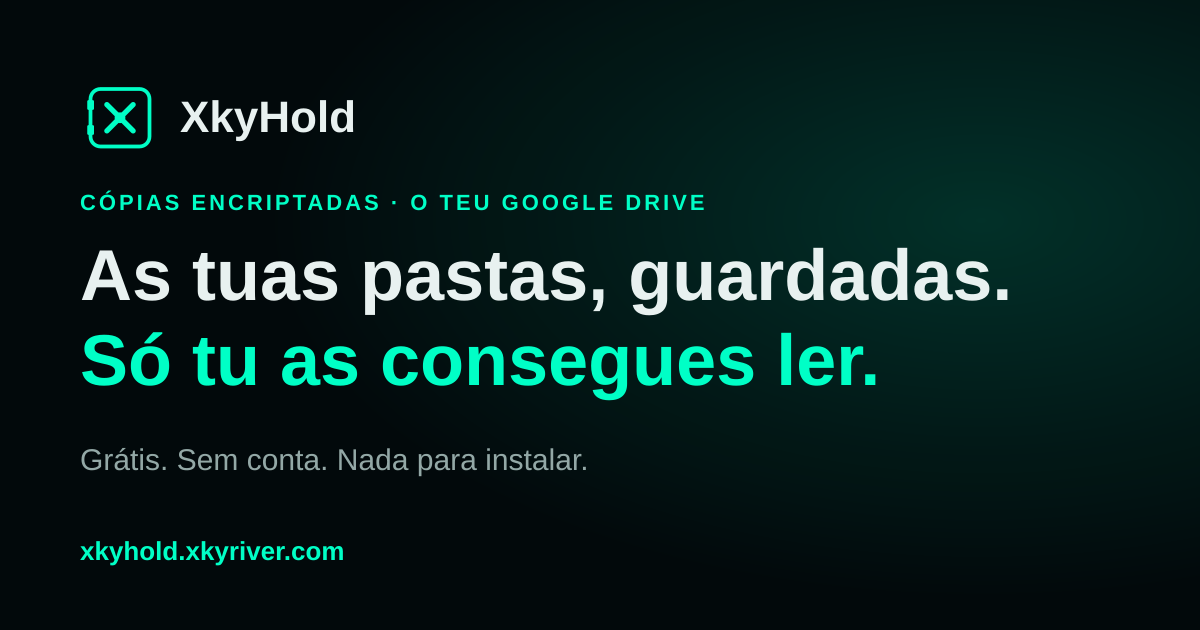
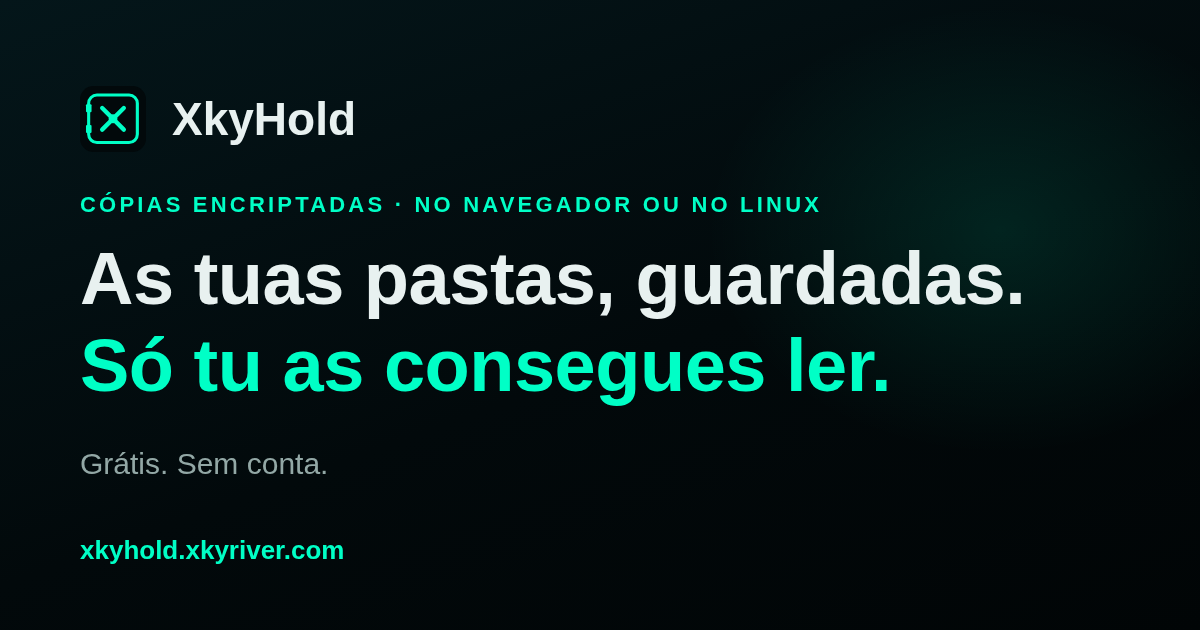
Landing phase 3: the Linux line in the app, new share images
- Folders step, on a Linux desktop: XkyHold-lx saves the whole personal
  folder, with a link to its page (tested detection)
- og.png and og-pt.png with the new texts, now made by scripts/og

diff --git a/src/lib/landing.test.ts b/src/lib/landing.test.ts
@@ -1,0 +1,19 @@
+import { describe, expect, it } from 'vitest'
+import { onLinuxDesktop } from './landing'
+
+describe('Linux desktop', () => {
+  it('knows a Linux desktop from Android, ChromeOS and the others', () => {
+    const firefox = 'Mozilla/5.0 (X11; Linux x86_64; rv:140.0) Gecko/20100101 Firefox/140.0'
+    const chrome = 'Mozilla/5.0 (X11; Linux x86_64) AppleWebKit/537.36 (KHTML, like Gecko) Chrome/140.0 Safari/537.36'
+    const android = 'Mozilla/5.0 (Linux; Android 15; Pixel 9) AppleWebKit/537.36 (KHTML, like Gecko) Chrome/140.0 Mobile Safari/537.36'
+    const chromeos = 'Mozilla/5.0 (X11; CrOS x86_64 16181.0.0) AppleWebKit/537.36 (KHTML, like Gecko) Chrome/140.0 Safari/537.36'
+    const windows = 'Mozilla/5.0 (Windows NT 10.0; Win64; x64) AppleWebKit/537.36 (KHTML, like Gecko) Chrome/140.0 Safari/537.36'
+    const mac = 'Mozilla/5.0 (Macintosh; Intel Mac OS X 10_15_7) AppleWebKit/605.1.15 (KHTML, like Gecko) Version/18.0 Safari/605.1.15'
+    expect(onLinuxDesktop(firefox, 'Linux x86_64')).toBe(true)
+    expect(onLinuxDesktop(chrome, 'Linux')).toBe(true)
+    expect(onLinuxDesktop(android, 'Android')).toBe(false)
+    expect(onLinuxDesktop(chromeos, 'Chrome OS')).toBe(false)
+    expect(onLinuxDesktop(windows, 'Windows')).toBe(false)
+    expect(onLinuxDesktop(mac, 'MacIntel')).toBe(false)
+  })
+})

diff --git a/scripts/og/og.css b/scripts/og/og.css
@@ -1,0 +1,59 @@
+/* The share images (public/og.png, public/og-pt.png), drawn at 1200x630 and
+   rendered by scripts/og/render.sh. Same colours as the landing page. */
+html,
+body {
+  margin: 0;
+  width: 1200px;
+  height: 630px;
+  overflow: hidden;
+}
+body {
+  box-sizing: border-box;
+  padding: 86px 80px 0;
+  font-family: 'Liberation Sans', Arial, sans-serif;
+  color: #e8f1f0;
+  background:
+    radial-gradient(420px 320px at 1000px 230px, rgb(0 255 198 / 11%), transparent 70%),
+    linear-gradient(160deg, #04161a 0%, #02090b 55%, #010506 100%);
+}
+.brand {
+  display: flex;
+  align-items: center;
+  gap: 26px;
+  font-size: 46px;
+  font-weight: 700;
+}
+.brand img {
+  width: 66px;
+  height: 66px;
+}
+.eyebrow {
+  margin: 40px 0 0;
+  color: #00ffc6;
+  font-size: 22px;
+  font-weight: 700;
+  letter-spacing: 3.2px;
+  text-transform: uppercase;
+}
+h1 {
+  margin: 18px 0 0;
+  font-size: 74px;
+  line-height: 1.17;
+  letter-spacing: -0.5px;
+}
+.accent {
+  color: #00ffc6;
+}
+.fine {
+  margin: 38px 0 0;
+  color: #93a8a6;
+  font-size: 30px;
+}
+.site {
+  position: absolute;
+  left: 80px;
+  top: 535px;
+  color: #00ffc6;
+  font-size: 26px;
+  font-weight: 700;
+}

diff --git a/src/ui/Folders.svelte b/src/ui/Folders.svelte
@@ -13,6 +13,7 @@
   import type { ScanResult } from '../fs/scan'
   import { formatBytes } from '../lib/format'
   import { fileCount, t } from '../lib/i18n.svelte'
+  import { isLinuxDesktop, linuxHref } from '../lib/landing'
   import { app, refreshFolders } from '../state/app.svelte'
   import type { FolderStatus } from '../state/app.svelte'
   import DropZone from './DropZone.svelte'
@@ -291,6 +292,13 @@
 <p class="small muted">
   {t('Your browser does not let you choose some folders whole, such as your personal folder, Documents or Desktop, because they can contain system files. Choose the folders inside them instead.')}
 </p>
+{#if isLinuxDesktop()}
+  <!-- Where the browser's limit is felt (docs/LANDING.md, decision P3). -->
+  <p class="small muted">
+    {t('On Linux, XkyHold-lx saves your whole personal folder, settings and keys included.')}
+    <a href={linuxHref()}>XkyHold-lx</a>
+  </p>
+{/if}
 {#if error}<p class="small" style:color="var(--warn)" role="alert">{error}</p>{/if}
 
 <style>

diff --git a/src/lib/landing.ts b/src/lib/landing.ts
@@ -2,3 +2,19 @@ import { i18n } from './i18n.svelte'
 
 /** The landing page in the app's current language. */
 export const landingHref = (): string => (i18n.lang === 'pt-PT' ? '/pt/' : '/')
+
+/** The XkyHold-lx page in the app's current language. */
+export const linuxHref = (): string => (i18n.lang === 'pt-PT' ? '/pt/linux/' : '/linux/')
+
+/**
+ * A desktop with Linux (not Android or ChromeOS, which also say Linux).
+ * The same test as public/landing-os.js.
+ */
+export function onLinuxDesktop(userAgent: string, platform: string): boolean {
+  return /linux/i.test(`${platform} ${userAgent}`) && !/android|cros/i.test(userAgent)
+}
+
+export function isLinuxDesktop(): boolean {
+  const nav = navigator as Navigator & { userAgentData?: { platform?: string } }
+  return onLinuxDesktop(nav.userAgent ?? '', nav.userAgentData?.platform ?? nav.platform ?? '')
+}

diff --git a/scripts/og/og-pt.html b/scripts/og/og-pt.html
@@ -1,0 +1,14 @@
+<!doctype html>
+<html lang="pt-PT">
+  <head>
+    <meta charset="UTF-8" />
+    <link rel="stylesheet" href="og.css" />
+  </head>
+  <body>
+    <div class="brand"><img src="../../public/favicon.svg" alt="" /> XkyHold</div>
+    <p class="eyebrow">Cópias encriptadas · No navegador ou no Linux</p>
+    <h1>As tuas pastas, guardadas.<br /><span class="accent">Só tu as consegues ler.</span></h1>
+    <p class="fine">Grátis. Sem conta.</p>
+    <div class="site">xkyhold.xkyriver.com</div>
+  </body>
+</html>

diff --git a/scripts/og/og-en.html b/scripts/og/og-en.html
@@ -1,0 +1,14 @@
+<!doctype html>
+<html lang="en">
+  <head>
+    <meta charset="UTF-8" />
+    <link rel="stylesheet" href="og.css" />
+  </head>
+  <body>
+    <div class="brand"><img src="../../public/favicon.svg" alt="" /> XkyHold</div>
+    <p class="eyebrow">Encrypted backups · In your browser or on Linux</p>
+    <h1>Your folders, backed up.<br /><span class="accent">Readable only by you.</span></h1>
+    <p class="fine">Free. No account.</p>
+    <div class="site">xkyhold.xkyriver.com</div>
+  </body>
+</html>

diff --git a/src/lib/i18n.pt-PT.ts b/src/lib/i18n.pt-PT.ts
@@ -274,4 +274,5 @@ export const ptPT: Record<string, string> = {
   'There is a new version of XkyHold.': 'Há uma versão nova do XkyHold.',
   'You can update when this finishes.': 'Podes atualizar quando isto terminar.',
   'Update': 'Atualizar',
+  'On Linux, XkyHold-lx saves your whole personal folder, settings and keys included.': 'No Linux, o XkyHold-lx guarda a pasta pessoal inteira, incluindo configurações e chaves.',
 }

diff --git a/docs/LANDING.md b/docs/LANDING.md
@@ -119,3 +119,4 @@ Saem: o botão "See how it works ↓" do topo (dá lugar aos dois botões; "How 
 ## 10. Registo
 
 - **Fase 2 feita a 15/11/2026.** `index.html` e `pt/index.html` com os textos aprovados (mesma estrutura nas duas línguas): ligação "Linux" na navegação (e, em ecrãs estreitos, ao lado de PT/EN), dois botões no topo e na chamada final, pré-visualização com a janela da web e a do XkyHold-lx sobrepostas, secção "Choose how to use XkyHold" com uma grelha que aceita mais cartões, ajustes em "Simple on purpose", "How it works", na nota da Google e nas perguntas. `public/landing-os.js` (ficheiro próprio, sem código na página) põe a classe `os-linux` em computadores com Linux (não Android nem ChromeOS); com ela, o botão e o cartão do Linux vêm primeiro e o do navegador fica secundário. **Visto** em `vite preview`, EN e PT, a 1366 px, 900 px e 375 px, com e sem a classe: ordem certa, sem deslocamento horizontal, cabeçalho numa linha. Corrigido no teste: a barra da janela pequena a 900 px; o cabeçalho e as janelas desenhadas no telemóvel (lá escondem-se os separadores e o selo, decorativos). Sem JavaScript, todo o texto está na página; nenhum código na página nem anfitriões novos. **Nota:** a landing só tem tema escuro (`color-scheme: dark`), por isso não há versão clara para ver.
+- **Fase 3, 15/11/2026.** App web: no passo das pastas, só num computador com Linux (não Android nem ChromeOS), a linha "On Linux, XkyHold-lx saves your whole personal folder, settings and keys included." com ligação para `/linux/` ou `/pt/linux/` (`src/lib/landing.ts`, mesma regra do `landing-os.js`; teste em `landing.test.ts`; 174 testes e verificação de tipos a passar). `<meta description>` e `og:description` já mudaram na fase 2. Imagens de partilha refeitas com os textos aprovados (linha de cima e "Free. No account." / "Grátis. Sem conta."); passam a ter gerador: `scripts/og/render.sh` desenha `scripts/og/og-en.html` e `og-pt.html` com o Chrome sem janela. **Visto:** as duas imagens. **Por ver:** a linha no passo das pastas no navegador (o passo só aparece depois do login Google).
